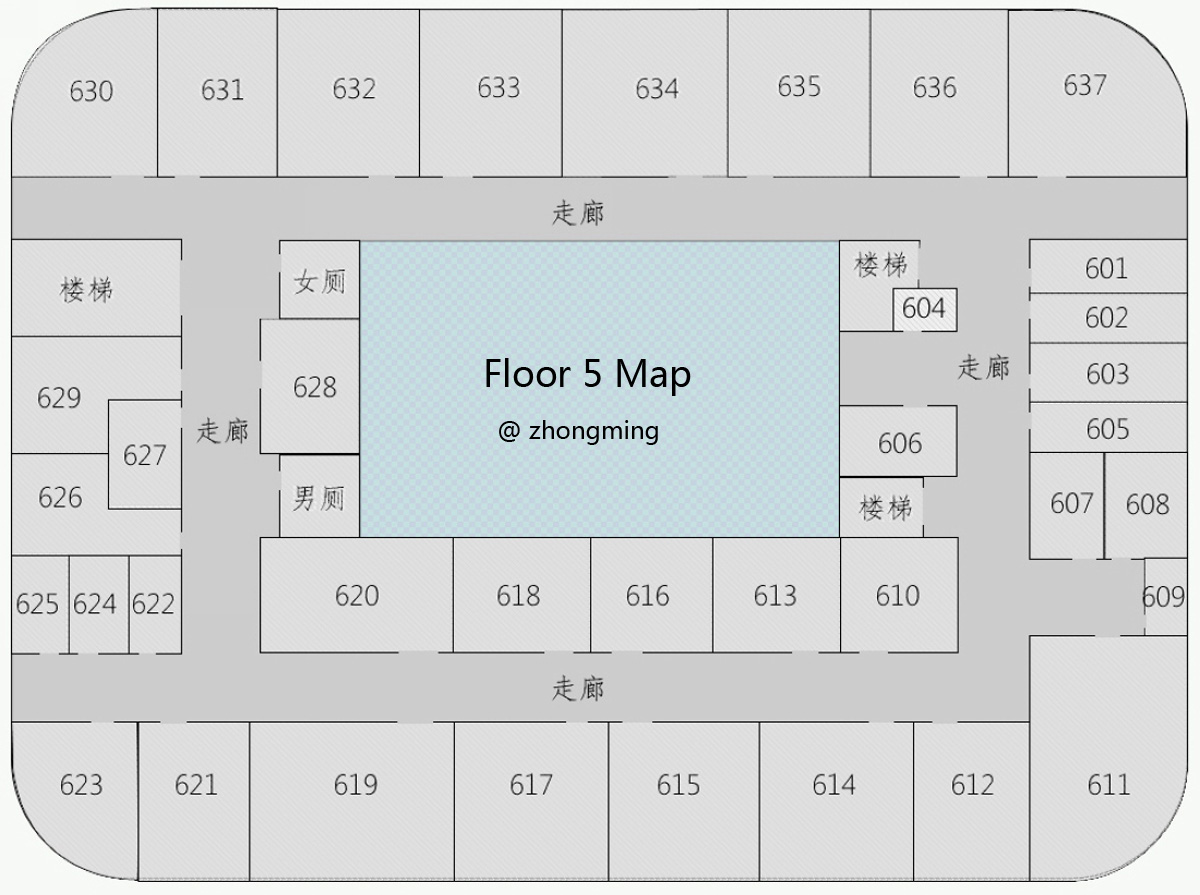
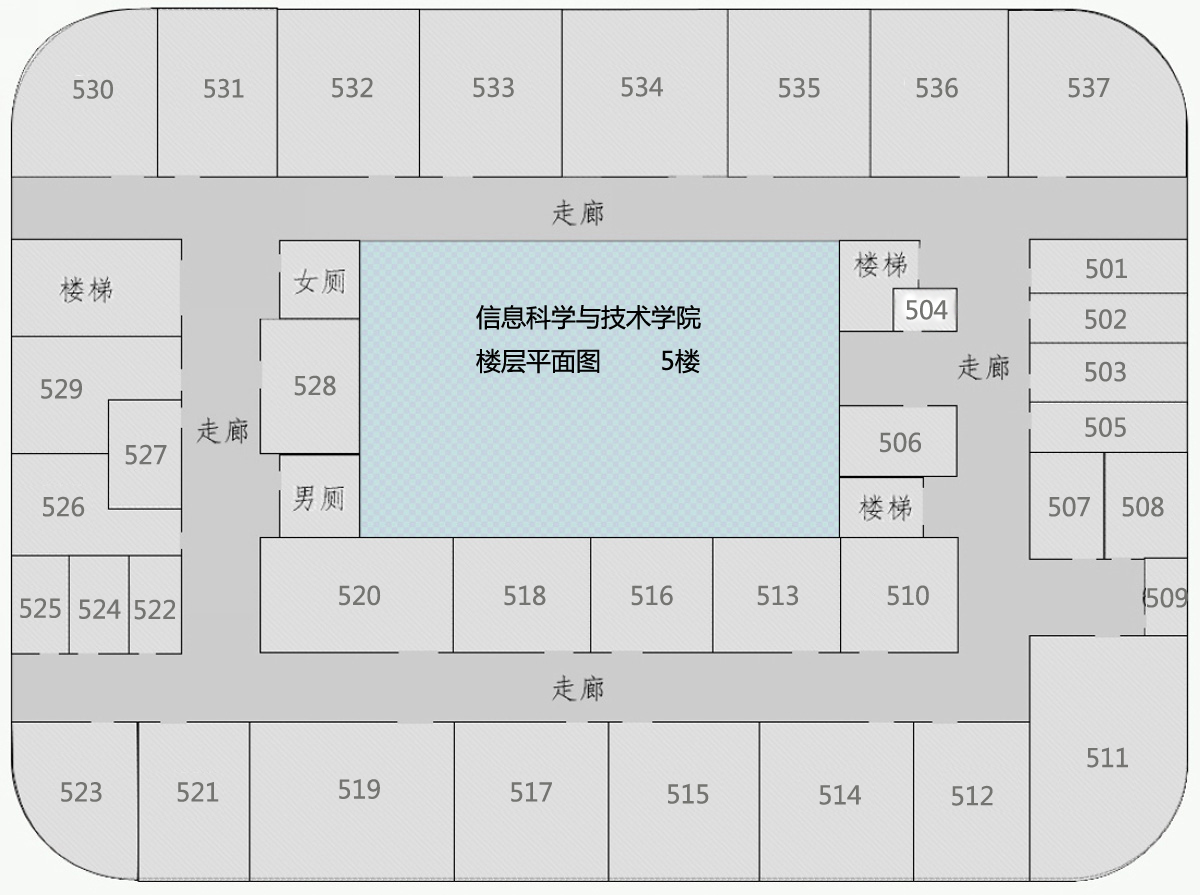
修补bug
修补了删除参考节点时软件奔溃的bug；修改了软件图标和5楼地图

diff --git a/mainwindow.cpp b/mainwindow.cpp
@@ -39,14 +39,14 @@ MainWindow::MainWindow(QWidget *parent)
 
     connect(scene, SIGNAL(refreshEmployeeTableWidget(const int)),
             personalTableWidget, SLOT(updateTable(const int)));
-    connect(showRefNodeAct, SIGNAL(triggered()), view, SLOT(sceneShowReferNode()));
+    connect(toggleRefNodeAct, SIGNAL(triggered()), view, SLOT(sceneShowReferNode()));
     connect(addRefNodeAct, SIGNAL(triggered()), view, SLOT(sceneAddReferNode()));
     connect(deleteRefNodeAct, SIGNAL(triggered()), view, SLOT(sceneDeleteReferNode()));
 
     setCentralWidget(view);
     setMinimumSize(1000,550);
     setWindowIcon(QIcon(":/images/icon.jpg"));
-    setWindowTitle(tr("Dynamic Location"));
+    setWindowTitle(tr("IB Location"));
 }
 
 MainWindow::~MainWindow()
@@ -56,8 +56,8 @@ MainWindow::~MainWindow()
 
 void MainWindow::createActions()
 {
-    switchScene = new QAction(tr("Switch Scene"),this);
-    switchScene->setStatusTip(tr("Switch to another scene"));
+    switchScene = new QAction(tr("Switch Floor"),this);
+    switchScene->setStatusTip(tr("Switch to another floor scene"));
     connect(switchScene, SIGNAL(triggered()), view, SLOT(switchScenes()));
 
     exitAct = new QAction(tr("Exit"),this);
@@ -68,11 +68,11 @@ void MainWindow::createActions()
     addRefNodeAct->setToolTip(tr("Add Reference"));
     addRefNodeAct->setStatusTip(tr("Add reference node"));
     deleteRefNodeAct = new QAction(tr("Delete Ref"), this);
-    deleteRefNodeAct->setToolTip(tr("Delete Reference"));
+    deleteRefNodeAct->setToolTip(tr("Delete Reference Node"));
     deleteRefNodeAct->setStatusTip(tr("Delete reference Node"));
-    showRefNodeAct = new QAction(tr("Show RefNode"),this);
-    showRefNodeAct->setToolTip(tr("Show Reference"));
-    showRefNodeAct->setStatusTip(tr("Show reference node"));
+    toggleRefNodeAct = new QAction(tr("Toggle Ref"),this);
+    toggleRefNodeAct->setToolTip(tr("Toggle Show All Reference Node"));
+    toggleRefNodeAct->setStatusTip(tr("Toggle Show All Reference Node"));
 
     openComAct = new QAction(tr("Open COM..."),this);
     openComAct->setStatusTip(tr("Config and open the serial port"));
@@ -97,7 +97,6 @@ void MainWindow::createActions()
 void MainWindow::createMenus()
 {
     fileMenu = menuBar()->addMenu(tr("&File"));
-    fileMenu->addAction(switchScene);
     fileMenu->addAction(exitAct);
 
     editMenu = menuBar()->addMenu(tr("&Edit"));
@@ -106,7 +105,8 @@ void MainWindow::createMenus()
     editMenu->addSeparator();
     editMenu->addAction(addRefNodeAct);
     editMenu->addAction(deleteRefNodeAct);
-    editMenu->addAction(showRefNodeAct);
+    editMenu->addAction(toggleRefNodeAct);
+    editMenu->addAction(switchScene);
 
     viewMenu = menuBar()->addMenu(tr("&View"));
 
@@ -131,7 +131,8 @@ void MainWindow::createToolBars()
     openCOMToolBar->addSeparator();
     openCOMToolBar->addAction(addRefNodeAct);
     openCOMToolBar->addAction(deleteRefNodeAct);
-    openCOMToolBar->addAction(showRefNodeAct);
+    openCOMToolBar->addAction(toggleRefNodeAct);
+    openCOMToolBar->addAction(switchScene);
 }
 
 void MainWindow::createDockWidgets()
